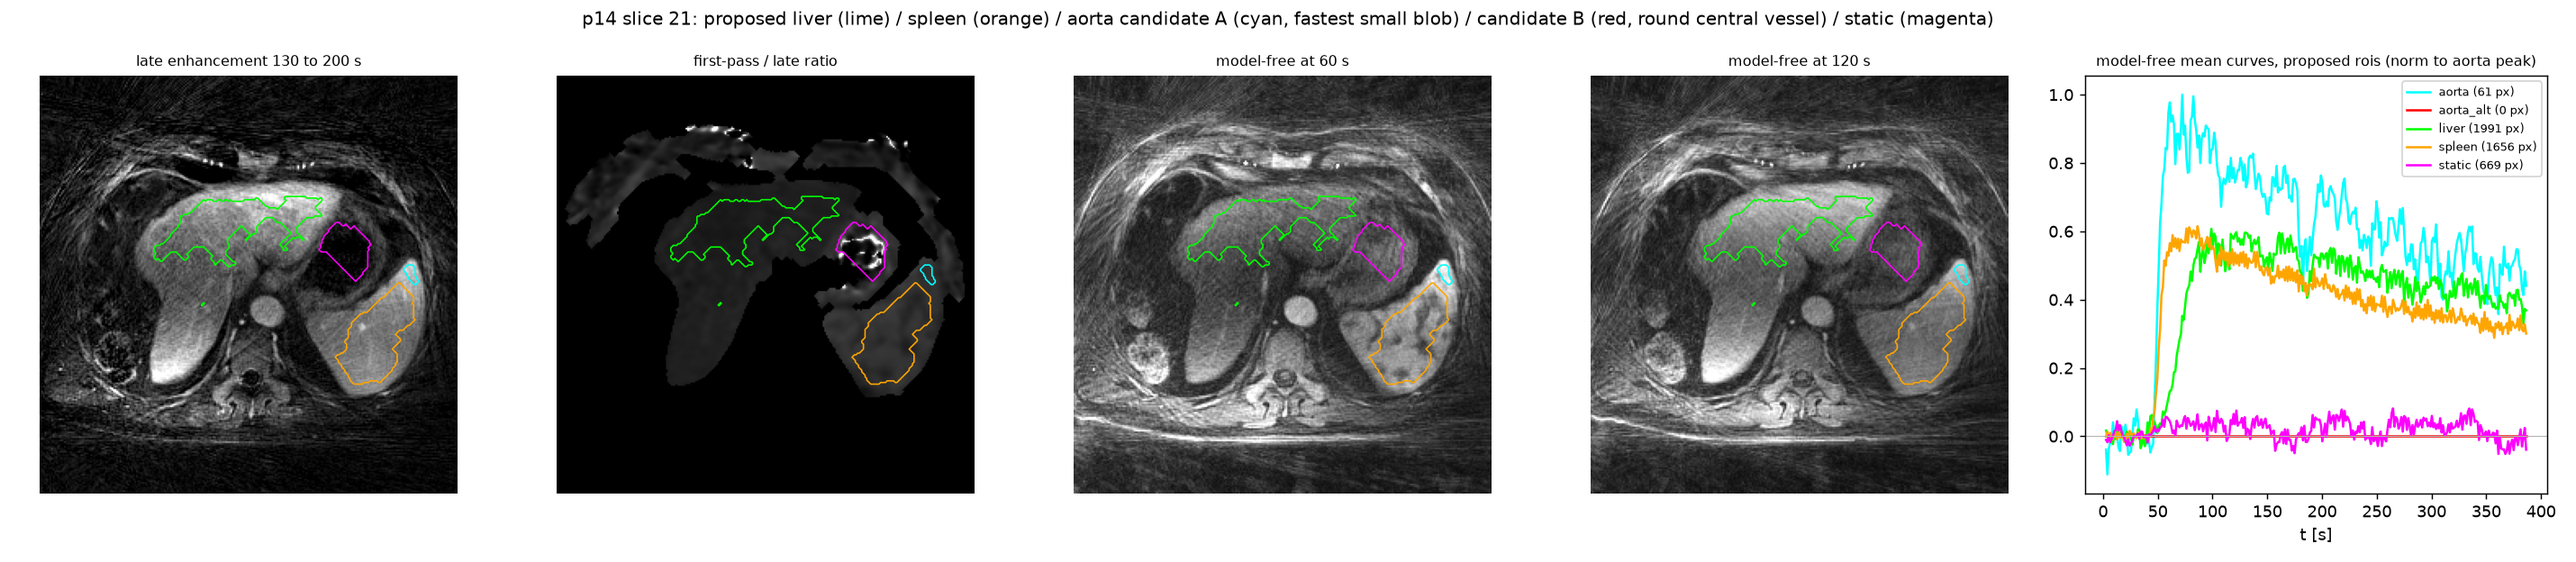
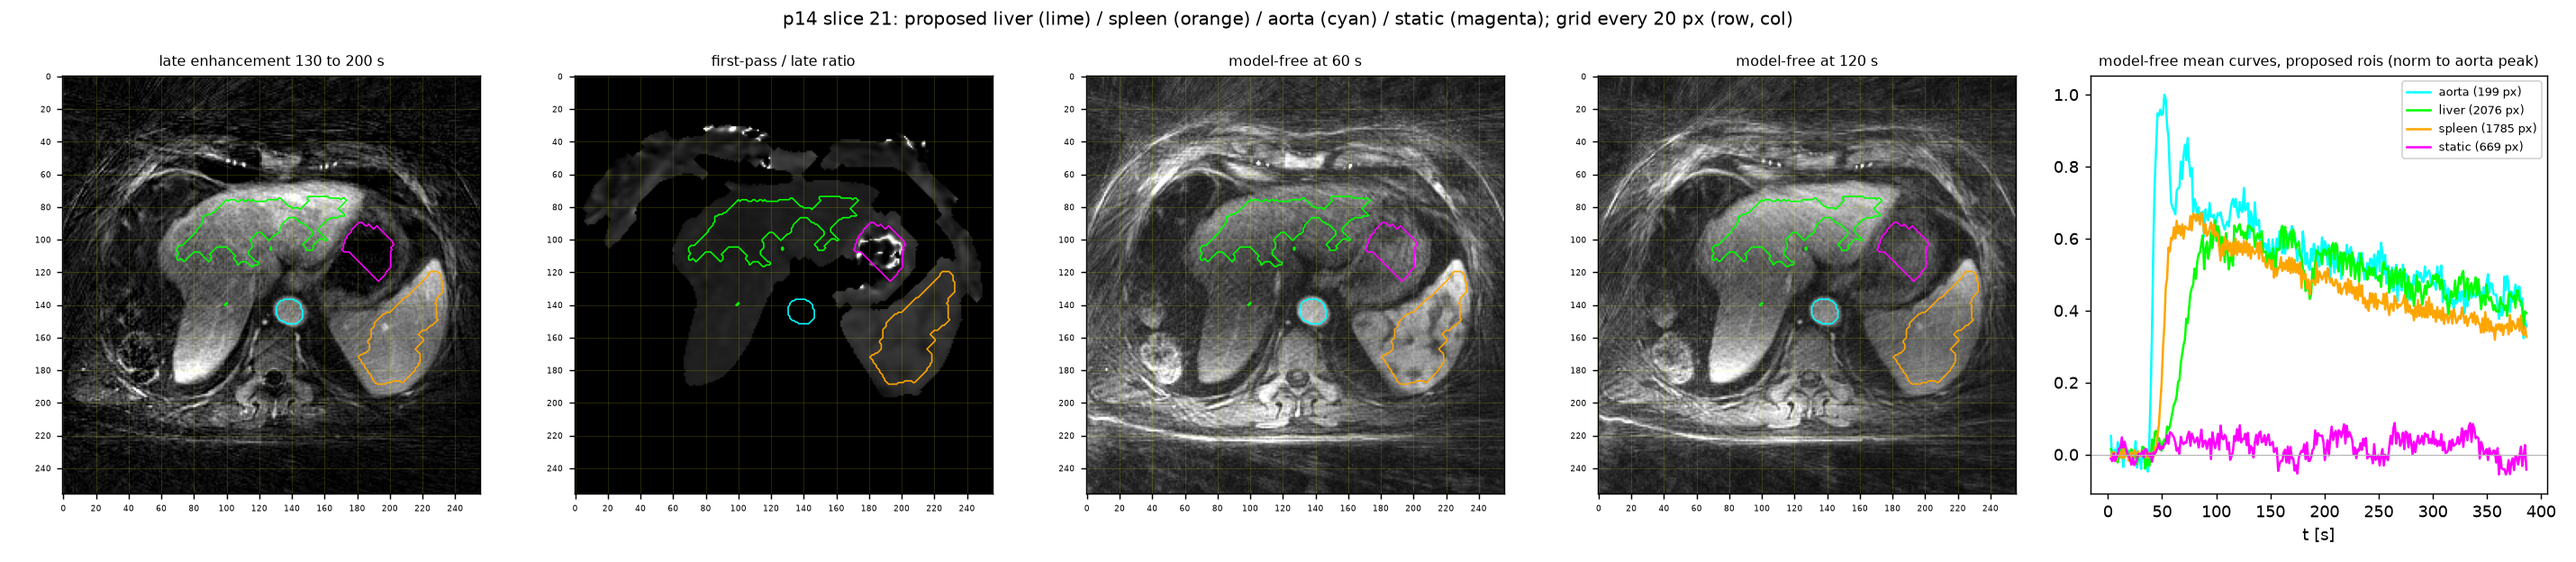
agent 2026-09-25 10:20 worker01.cluster: 9 files

diff --git a/jobs/agent/status.md b/jobs/agent/status.md
@@ -1,18 +1,17 @@
 # helios agent
 
-updated 2026-09-25 10:18:47 on worker01.cluster, job 3373495, cycle 133
+updated 2026-09-25 10:20:53 on worker01.cluster, job 3373495, cycle 134
 
 ## active
 
 | jid | script | state |
 |---|---|---|
-| 3380010 | 081_p14_grids | 1 PENDING None |
 
 ## done (last 20)
 
 | name | state |
 |---|---|
-| 081_p14_grids | 1 PENDING None |
+| 081_p14_grids | 1 COMPLETED 00:00:20 |
 | 071_p14_prep_24_27 | 1 COMPLETED 00:33:45, 1 COMPLETED 00:49:26 |
 | 080_roi_p14_sl21_seed | 1 COMPLETED 00:00:06 |
 | 079_aorta_grid | 1 COMPLETED 00:00:08 |

diff --git a/results/realdata_nik_vs_cs_figures/rois_proposed_p14.md b/results/realdata_nik_vs_cs_figures/rois_proposed_p14.md
@@ -2,6 +2,4 @@
 
 | slice | liver px | spleen px | aorta px | static px | liver ttp s / plateau | spleen ttp s / plateau |
 |---|---|---|---|---|---|---|
-| 21 | 1991 | 1656 | 61 | 669 | 99 / 0.70 | 86 / 0.57 |
-| 24 | 1418 | 935 | 8 | 511 | 101 / 0.71 | 110 / 0.66 |
-| 27 | 2418 | 422 | 145 | 389 | 101 / 0.70 | 108 / 0.60 |
+| 21 | 2076 | 1785 | 199 | 669 | 99 / 0.70 | 86 / 0.57 |
